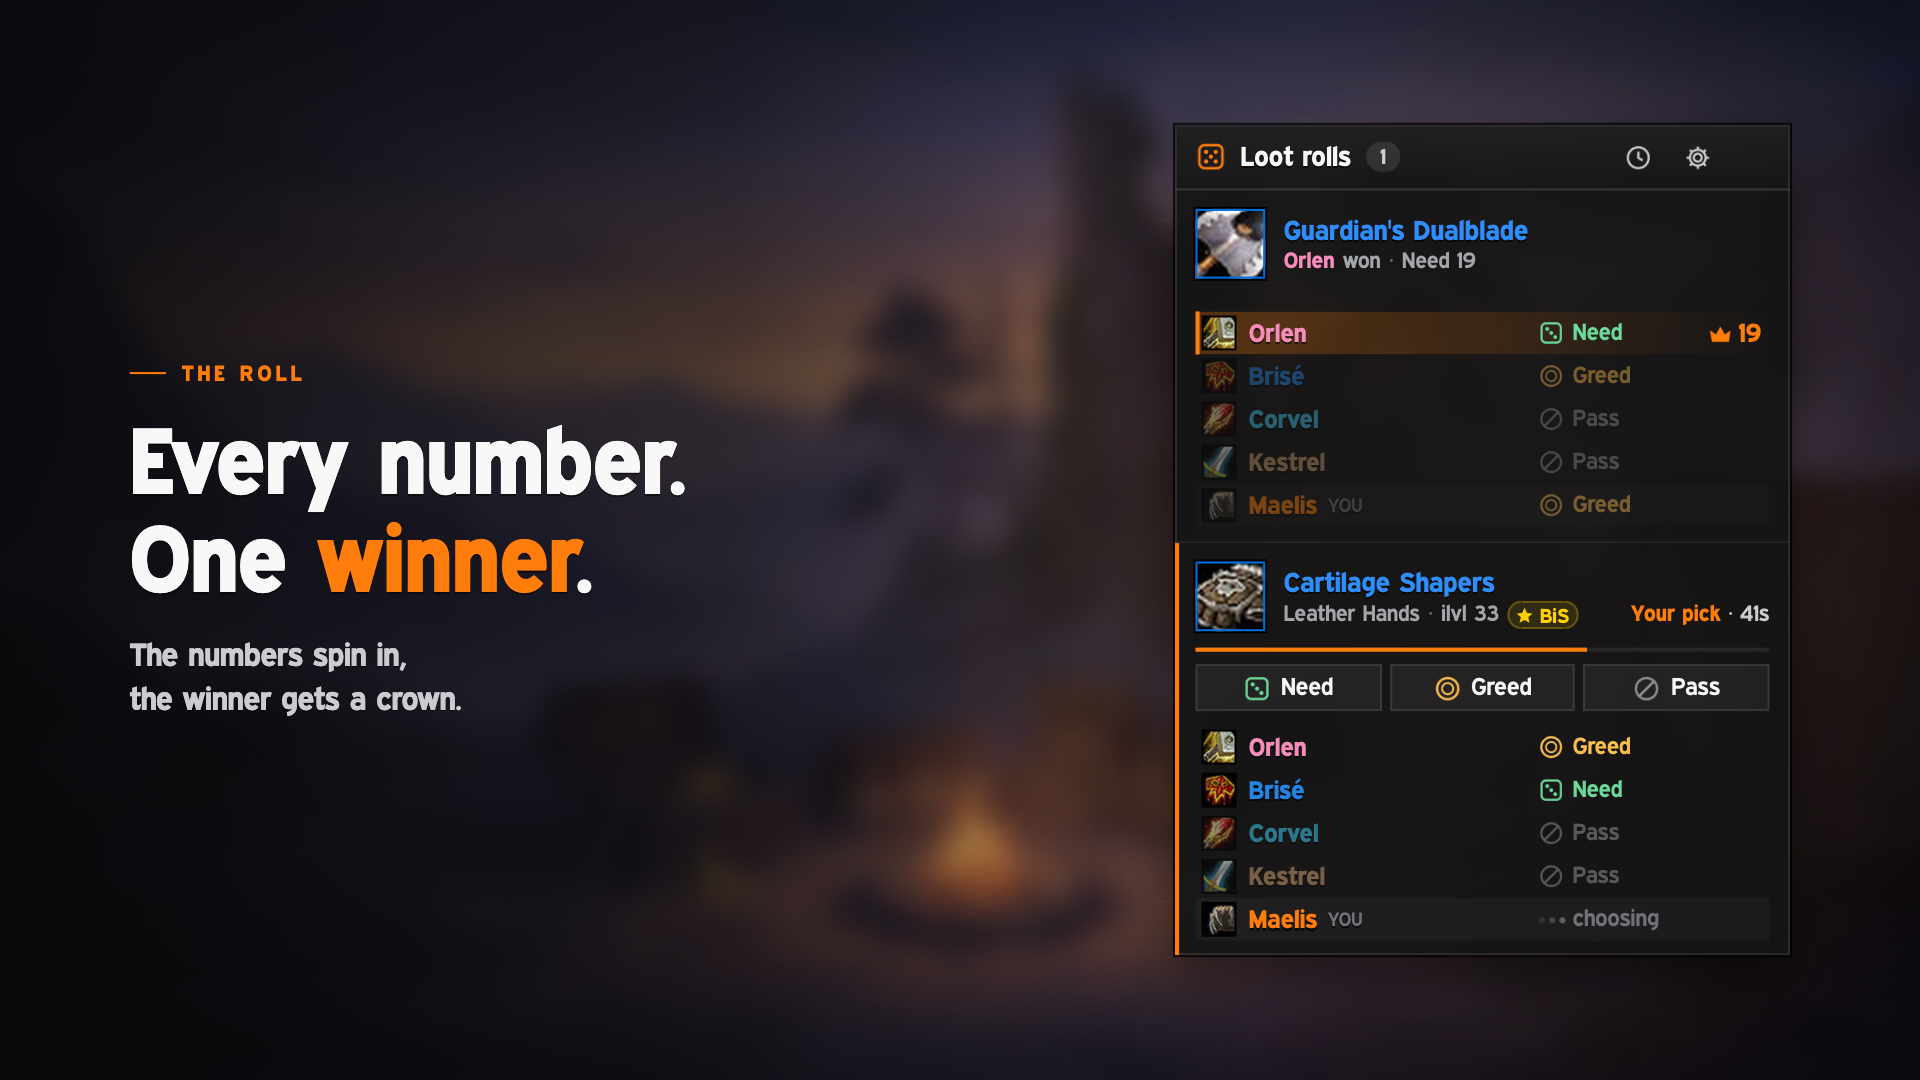
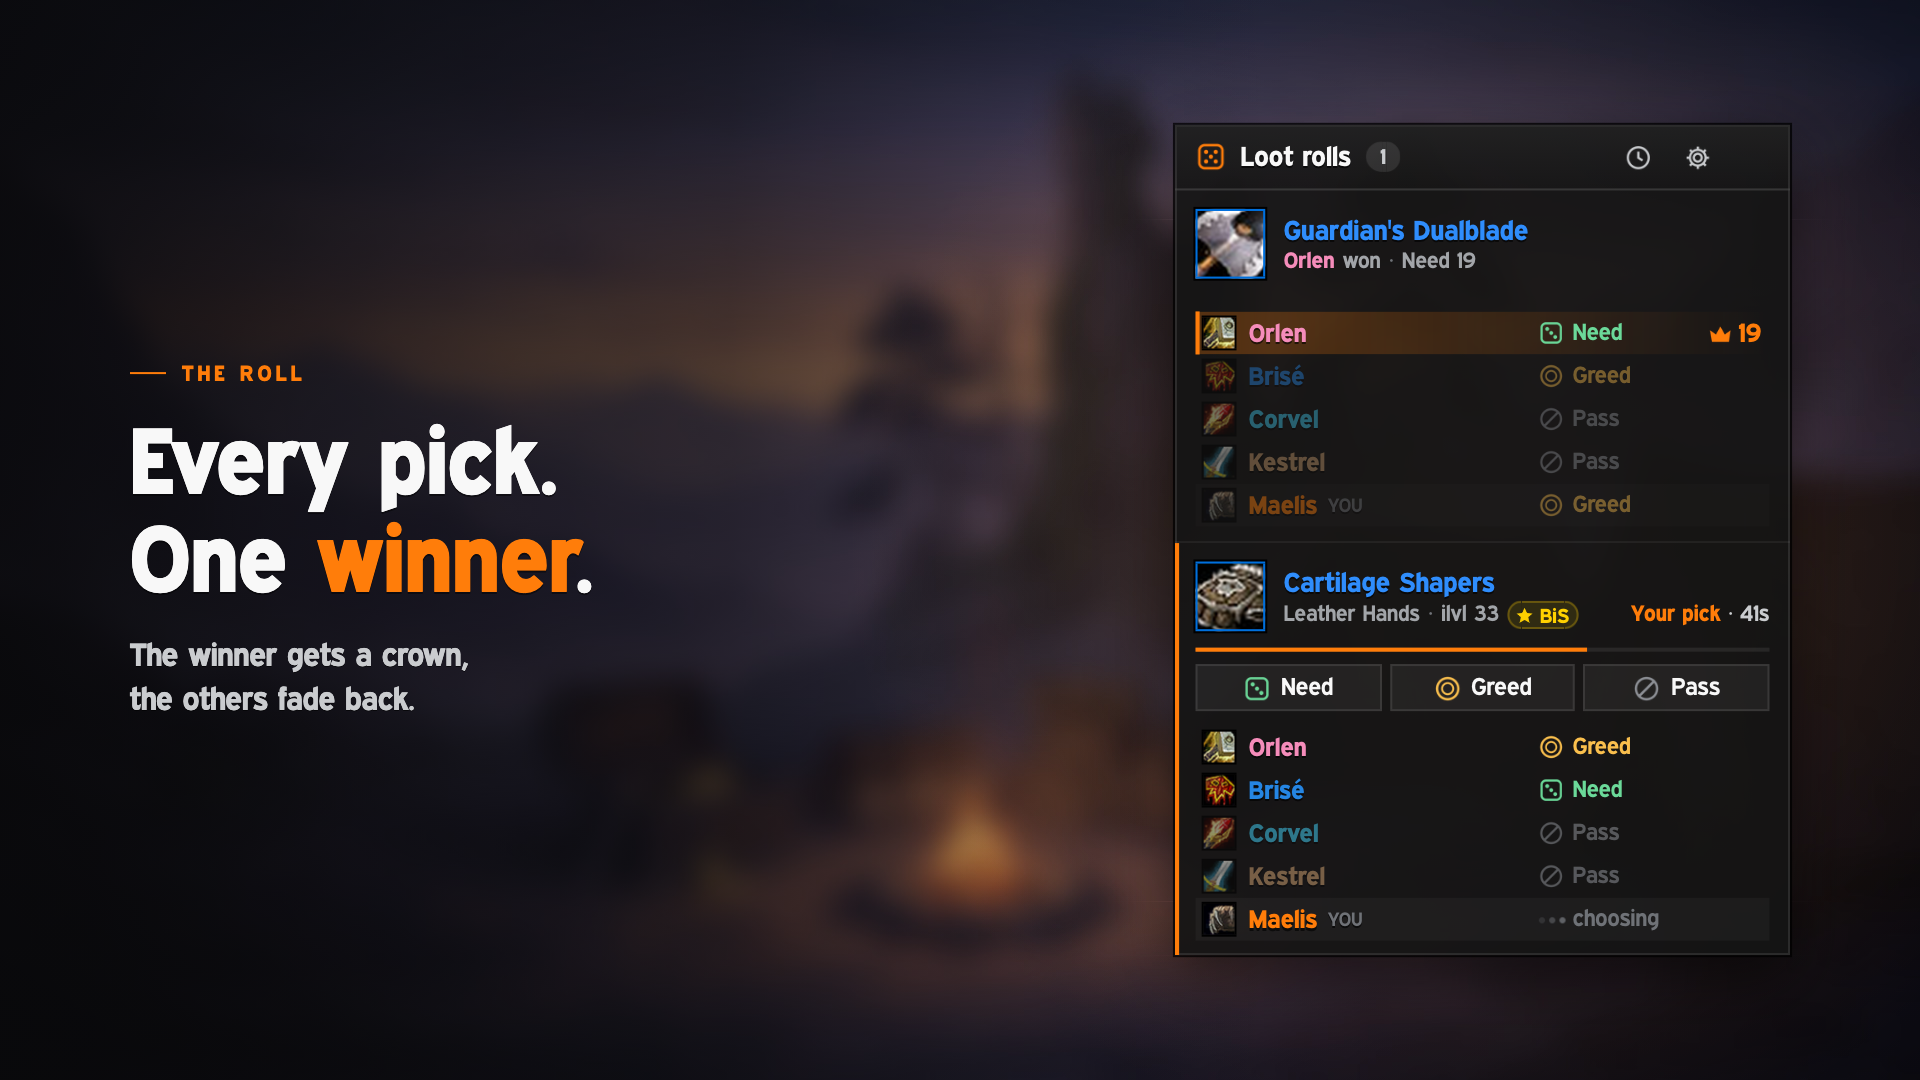
docs: shot 03 says "Every pick. One winner."
Its card shows one number (the Greed rows have none when a Need wins, as
the game reports it), so the copy now says what the picture shows: every
pick, one winner, a crown for the winner and the others fading back.
Re-rendered with tools/make_listing.py; curseforge.md follows.

Changed region(s): [[0.0938, 0.5806, 0.25, 0.6722], [0.1875, 0.3972, 0.375, 0.4889]]

diff --git a/tools/make_listing.py b/tools/make_listing.py
@@ -43,8 +43,8 @@ SHOTS = [
         sub="Need, Greed, Pass or still choosing,|right next to every name.")),
     ("03-winner", "winner", dict(
         bg="bg-camp.jpg", layout="left", scale="2.05", eyebrow="The roll",
-        title="Every number.|One *winner*.",
-        sub="The numbers spin in,|the winner gets a crown.")),
+        title="Every pick.|One *winner*.",
+        sub="The winner gets a crown,|the others fade back.")),
     ("04-you-won", "glow", dict(
         bg="bg-vault.jpg", layout="right", scale="2.45", eyebrow="Your loot",
         title="When you win,|it *glows*.",

diff --git a/docs/ledger.md b/docs/ledger.md
@@ -175,7 +175,7 @@ Ruling: the demo's gloves get their numbers at 11.2 s and their win at 12.3 s, 2
 Task 12 fix round 1 done: R44's row option, the demo's scripted finale, demo cards kept from the game's roll events, Recent against a damaged saved list, `Demo.Start` without a wedge and saying it plays, the demo's items asked for and filled in, a quieter finale (`luajit tests/run.lua` → 392 passed, 0 failed in the worktree, of which 6 are new; `luajit tests/syntax.lua` → syntax ok; `python3 -I tests/test_media.py` → media ok (21 textures, 21 names in the code)).
 Ruling (Task 13's item for the controller, done in Task 14): a row's class icon has its black rim as four lines one physical pixel wide just outside it, the top and bottom ones over the corners (`newRim` in `UI/Card.lua`, as `W.Outline` lays them), and nothing under the icon: the client fades a row region by region where the mockup's CSS fades `.pr` as one layer, so the old 17 px black square under the icon showed through a faded icon. Measured in the winner scene against the mockup (headless Chrome at 2x, each faded icon's mean colour): 4 to 6 levels dark before (Brisé's 52.9/29.1/12.2 against 58.7/34.0/18.2), within 0.1 now; the player's own faded row is 1.4 to 1.9 levels light, its 3.5 % white ground being under the icon too. — cost if wrong: none.
 R47 (the controller's ruling, Task 14b): the render page draws the private backdrop only when a page asks for it (`?bg=backdrop.jpg`, to compare with the mockup); by default a page has none, and every listing image and GIF frame names a generated backdrop (`bg-*.jpg`). The comparison tool in the scratchpad passes it now. — cost if wrong: none.
-Ruling: the gallery (`tools/make_listing.py`, Sotto's adapted) tells the brief's story from the real UI over the three generated backdrops, alternating sides and never the same backdrop twice in a row: 01 `pick` (every roll in one window; the vault), 02 `rolling` at 2.45 (who picked what; the hall), 03 `winner` at 2.05 (the camp), 04 `glow` at 2.45 (you won; the vault), 05 `recent` (the session's results; the camp), 06 `settings` with EllesmereUI's accent at 2.3 (fits your UI; the hall; the copy's accent is EllesmereUI's cyan too, so the one other accent shows the point), the hero `winner` at 1.38 (the vault); pick and recent keep 1.9, the scale the staging chose for the 452 px pick. Copy from the staged headlines, with three changes: 03's subline says "numbers" as its headline does, 04's subline drops a second "glow" ("A light sweeps the card, a soft chime plays"), 06's eyebrow is "Settings" and its pills lose "Five settings" (the panel shows them) and gain "Works without EllesmereUI". The hero's tagline is a shot parameter (`tagline`), not copy written into the render tool as Sotto's was. — cost if wrong: a line in `SHOTS`.
+Ruling (03's copy superseded by the final review's item 15: "Every pick. One winner."): the gallery (`tools/make_listing.py`, Sotto's adapted) tells the brief's story from the real UI over the three generated backdrops, alternating sides and never the same backdrop twice in a row: 01 `pick` (every roll in one window; the vault), 02 `rolling` at 2.45 (who picked what; the hall), 03 `winner` at 2.05 (the camp), 04 `glow` at 2.45 (you won; the vault), 05 `recent` (the session's results; the camp), 06 `settings` with EllesmereUI's accent at 2.3 (fits your UI; the hall; the copy's accent is EllesmereUI's cyan too, so the one other accent shows the point), the hero `winner` at 1.38 (the vault); pick and recent keep 1.9, the scale the staging chose for the 452 px pick. Copy from the staged headlines, with three changes: 03's subline says "numbers" as its headline does, 04's subline drops a second "glow" ("A light sweeps the card, a soft chime plays"), 06's eyebrow is "Settings" and its pills lose "Five settings" (the panel shows them) and gain "Works without EllesmereUI". The hero's tagline is a shot parameter (`tagline`), not copy written into the render tool as Sotto's was. — cost if wrong: a line in `SHOTS`.
 Ruling: the "you won" still is a moment of the effect, not the scene at rest (at rest nothing glows): the render tool's new `glow` scene lets the gloves' numbers land first (as `/tutti demo` plays them: the numbers, then the decision) and is taken 0.45 s after the decision, the ring at the peak of its first glow, the shine crossing the card and the crown still popping. The mockup's scenes are unchanged. — cost if wrong: one scene.
 Ruling: the animations (`tools/make_gifs.py`) are films the render tool plays through the game's own events, as its scenes do, not `/tutti demo`: `drop` (01-a-boss-drop.gif, 15.3 s, Close after the last roll on 5 seconds, the shortest, so the countdown and the sink fit; the axe folds 1.5 s before the gloves' win, both in sight), `click` (02, 4.7 s) and `won` (03, 4.1 s, Close after on Never as youwon, so no countdown pulls the eye). 15 frames a second, each page shot by headless Chrome at 1600 x 1000 (six at once) and scaled to 800 x 500; one palette for all frames (palettegen, then paletteuse with sierra2_4a dithering and diff_mode=rectangle), looping: 1.22, 0.21 and 0.31 MB, the colours about one level off the frames. Spinning numbers use a seeded random, so a rerun draws the same faces. — cost if wrong: one list or one film.
 Ruling: a film's mouse is drawn by the page (a plain white arrow with a dark edge), not by the addon: without it a click reads as a button flashing by itself. The cursor glides in (eased), its arrival calls the button's own OnEnter (the hover look), then OnMouseDown (the press: the pick's colour, the body at 95 %), OnMouseUp and Click, and the game's CANCEL_LOOT_ROLL; its tip lands just after the button's word, so the word stays readable. Between and after clicks it rests beside the window, off the cards (in game the countdown waits while the mouse is over the window). — cost if wrong: none.
@@ -204,6 +204,7 @@ Ruling (final review, item 10): `refreshItem` keeps the label and item level a c
 Final fix wave, items 5 to 10 done: History's late numbers (5), stack counts (6), the demo's mark (7), the fake's `RollOnLoot` (8), one table of pick words (9), the triage fixes (10); 13 new tests across `tests/test_history.lua`, `test_widgets.lua`, `test_card.lua`, `test_recent.lua`, `test_rolls.lua` and `test_group.lua` (each red on the commit before it, but item 9's, a refactor whose test is red only for the missing function).
 R48 (the controller's ruling, from Task 14; done in the final fix wave): the three blurred backdrops (`bg-vault.jpg`, `bg-hall.jpg`, `bg-camp.jpg`, 1920 x 1080, 254 KB together, no metadata) and their prompts, one `prompts.md` with the icon's prompt too and how the backdrops were made from the generated originals (crop to 16:9, Lanczos to 1920 x 1080, Gaussian 14 px, JPEG 92), are in `docs/listing/backdrops/`; the sharp originals and `prep_bg.py` stay in the git-ignored `.superpowers/listing/`. `tools/make_listing.py` and `tools/make_gifs.py` copy the backdrops their shots name from there into the render dir, so the gallery can be remade from a clean checkout. — cost if wrong: 254 KB in the repo.
 Ruling (final review, item 14): `tools/make_listing.py` gives each Chrome a profile of its own (`--user-data-dir`, a temporary directory removed afterwards), as `tools/make_gifs.py` does; both tools show what a failed command wrote to stderr and stop (`run`); both take Chrome's path from the `CHROME` environment variable, the macOS path by default; the films' cursor in `tools/render_ui.lua` comes from and rests beside the window's real width (`rectOf(TuttiFrame)`), not 300. Checked after this pass: every frame of the three films and all nine scenes are byte for byte what 2336eb2 drew, so the committed GIFs and screenshots still show the addon as it is (the pill keeps the mockup's grey in the rolls). — cost if wrong: none (dev tools).
+Ruling (final review, item 15): shot 03's copy says what its picture shows: "Every pick.|One *winner*." over "The winner gets a crown,|the others fade back." (it said "Every number." and "The numbers spin in", over a card with one number: the Greed rows have none when a Need wins, as the game reports it); `curseforge.md`'s gallery line follows. Re-rendered with `tools/make_listing.py` (the backdrop from `docs/listing/backdrops/`) and looked at: only the copy changed (the window's pixels within 8 levels of the old shot). — cost if wrong: one line in `SHOTS`.
 
 ## In-game checklist
 

diff --git a/docs/listing/curseforge.md b/docs/listing/curseforge.md
@@ -23,7 +23,7 @@ Everything to paste into the CurseForge project form (authors.curseforge.com).
 
 1. `screenshots/01-every-roll.png`: Every roll, in one window: each item gets a card, with your whole group under it.
 2. `screenshots/02-picks.png`: Who picked what, at a glance: Need, Greed, Pass or still choosing, right next to every name.
-3. `screenshots/03-winner.png`: Every number, one winner: the numbers spin in, the winner gets a crown.
+3. `screenshots/03-winner.png`: Every pick, one winner: the winner gets a crown, the others fade back.
 4. `screenshots/04-you-won.png`: When you win, it glows: a light sweeps the card and a soft chime plays.
 5. `screenshots/05-recent.png`: The whole run, one click away: every result of the session, with everyone's picks.
 6. `screenshots/06-settings.png`: Looks like your UI: EllesmereUI's colours and font, or your class colour.
